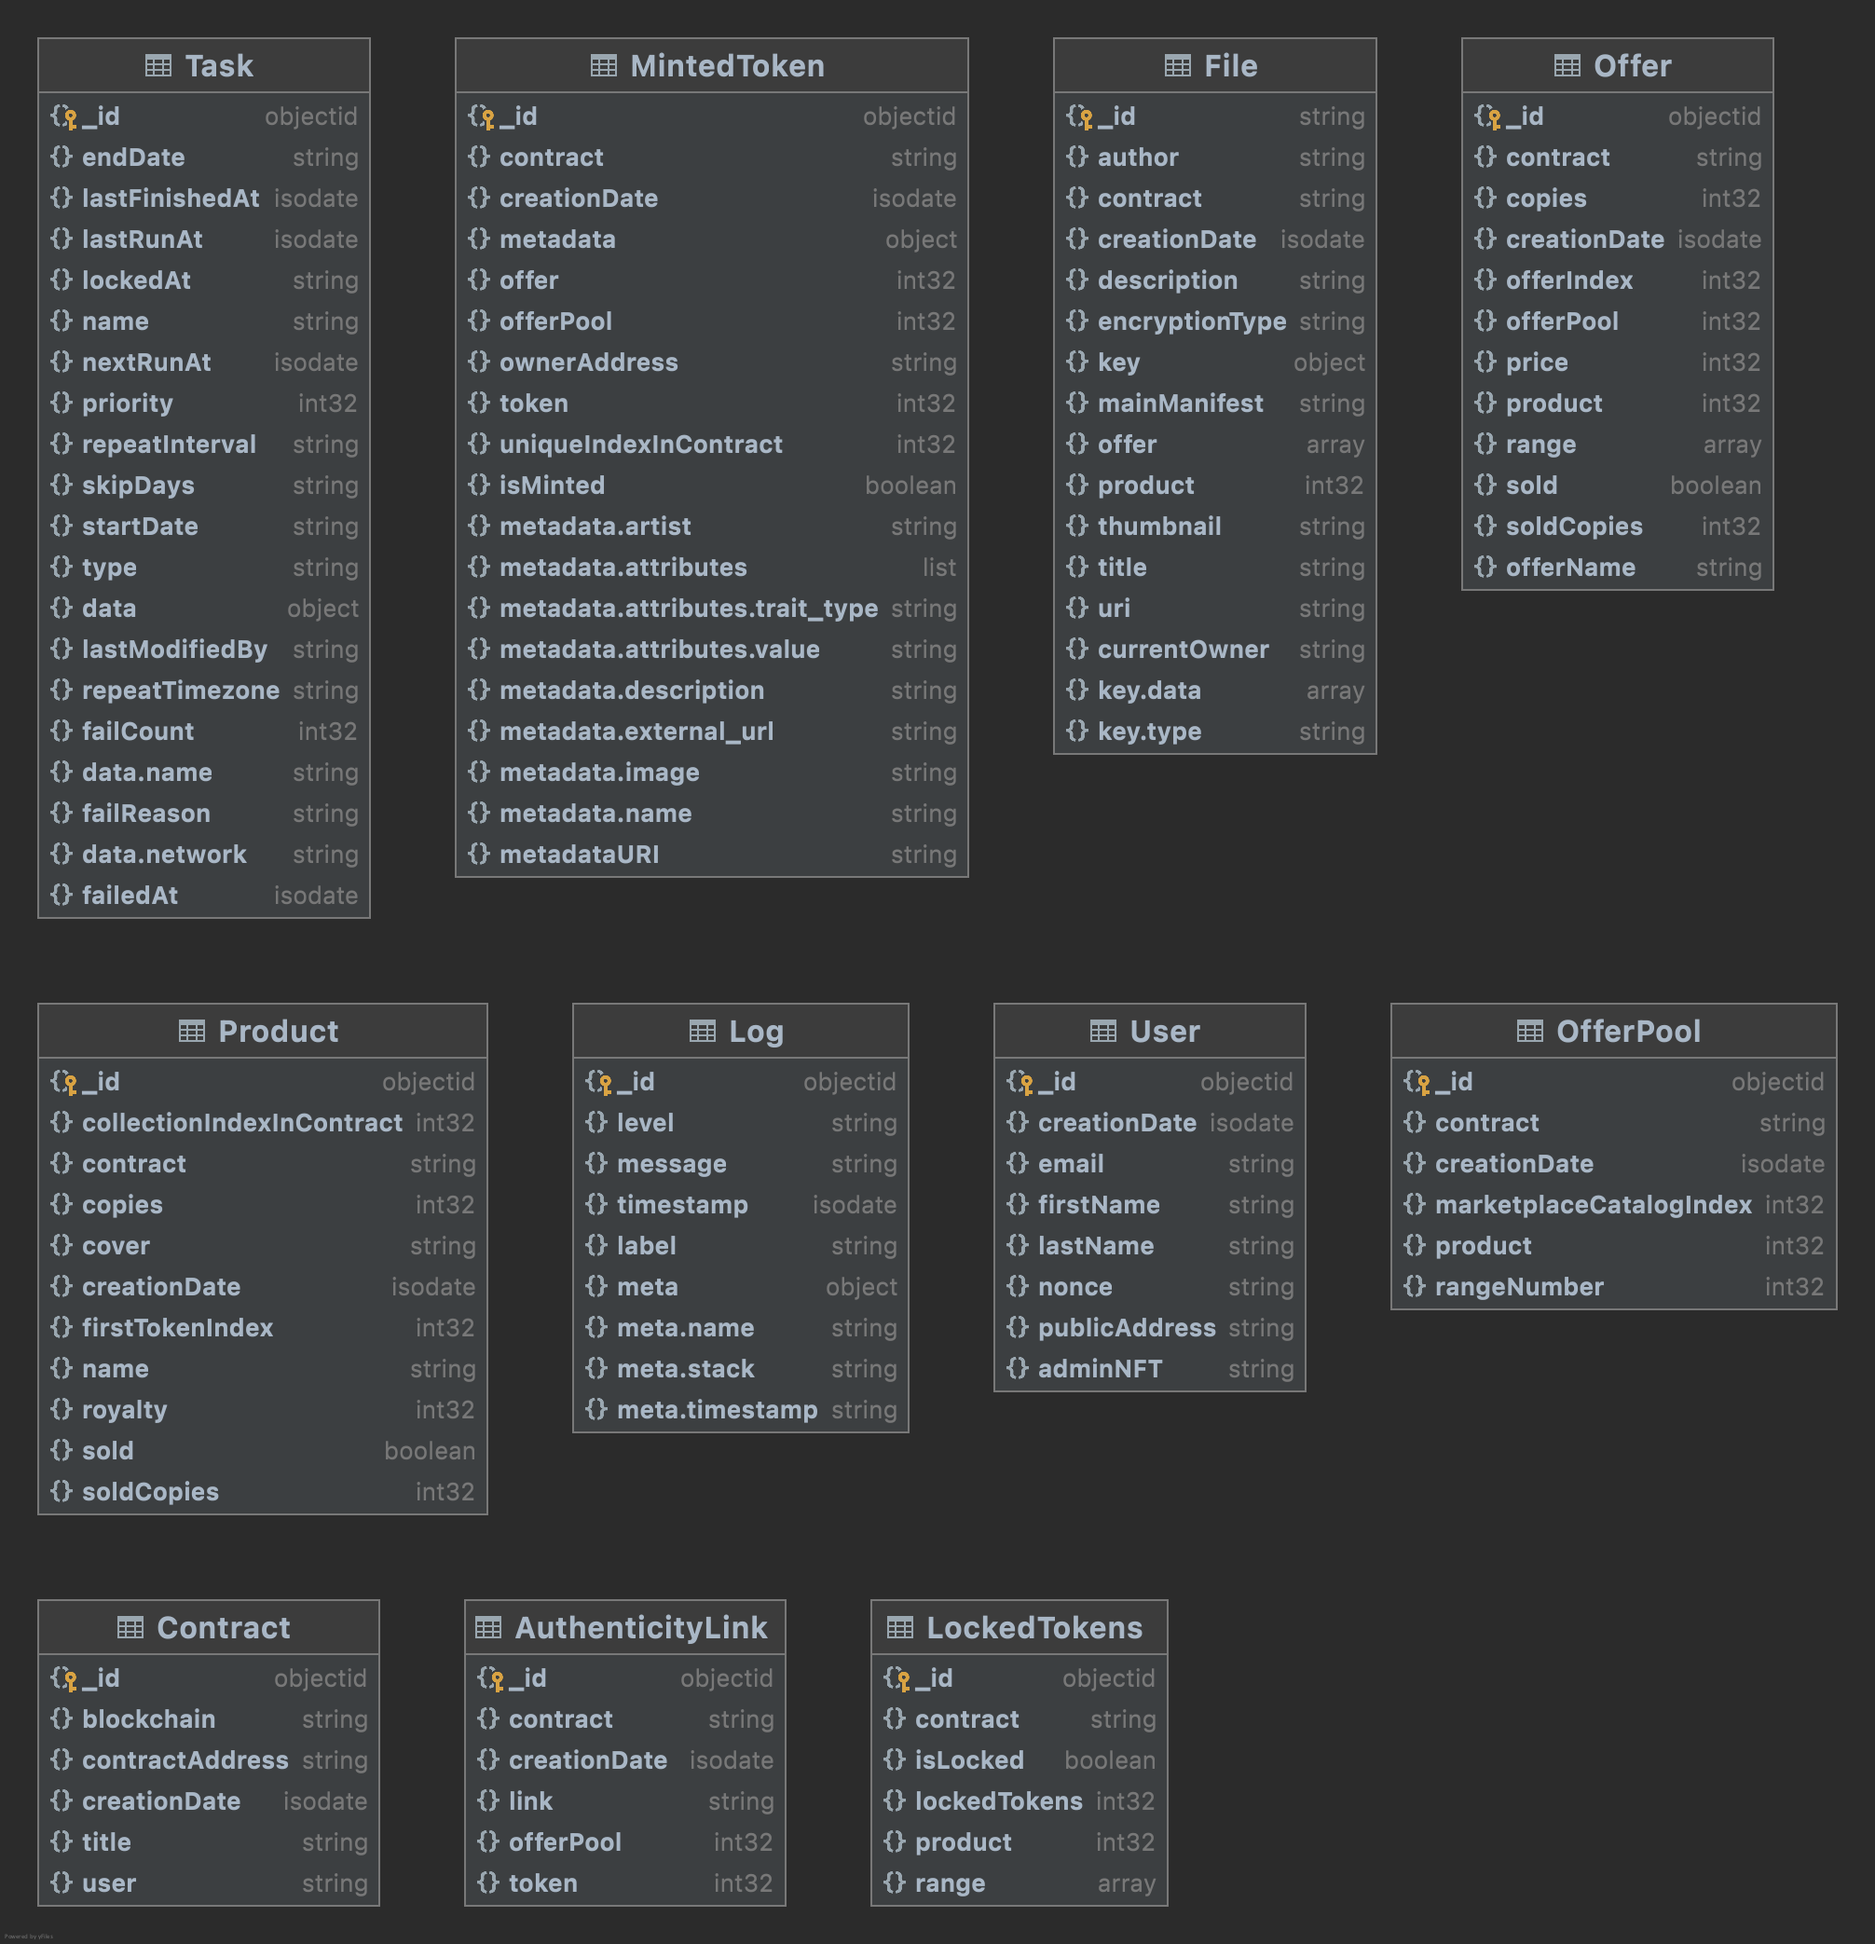
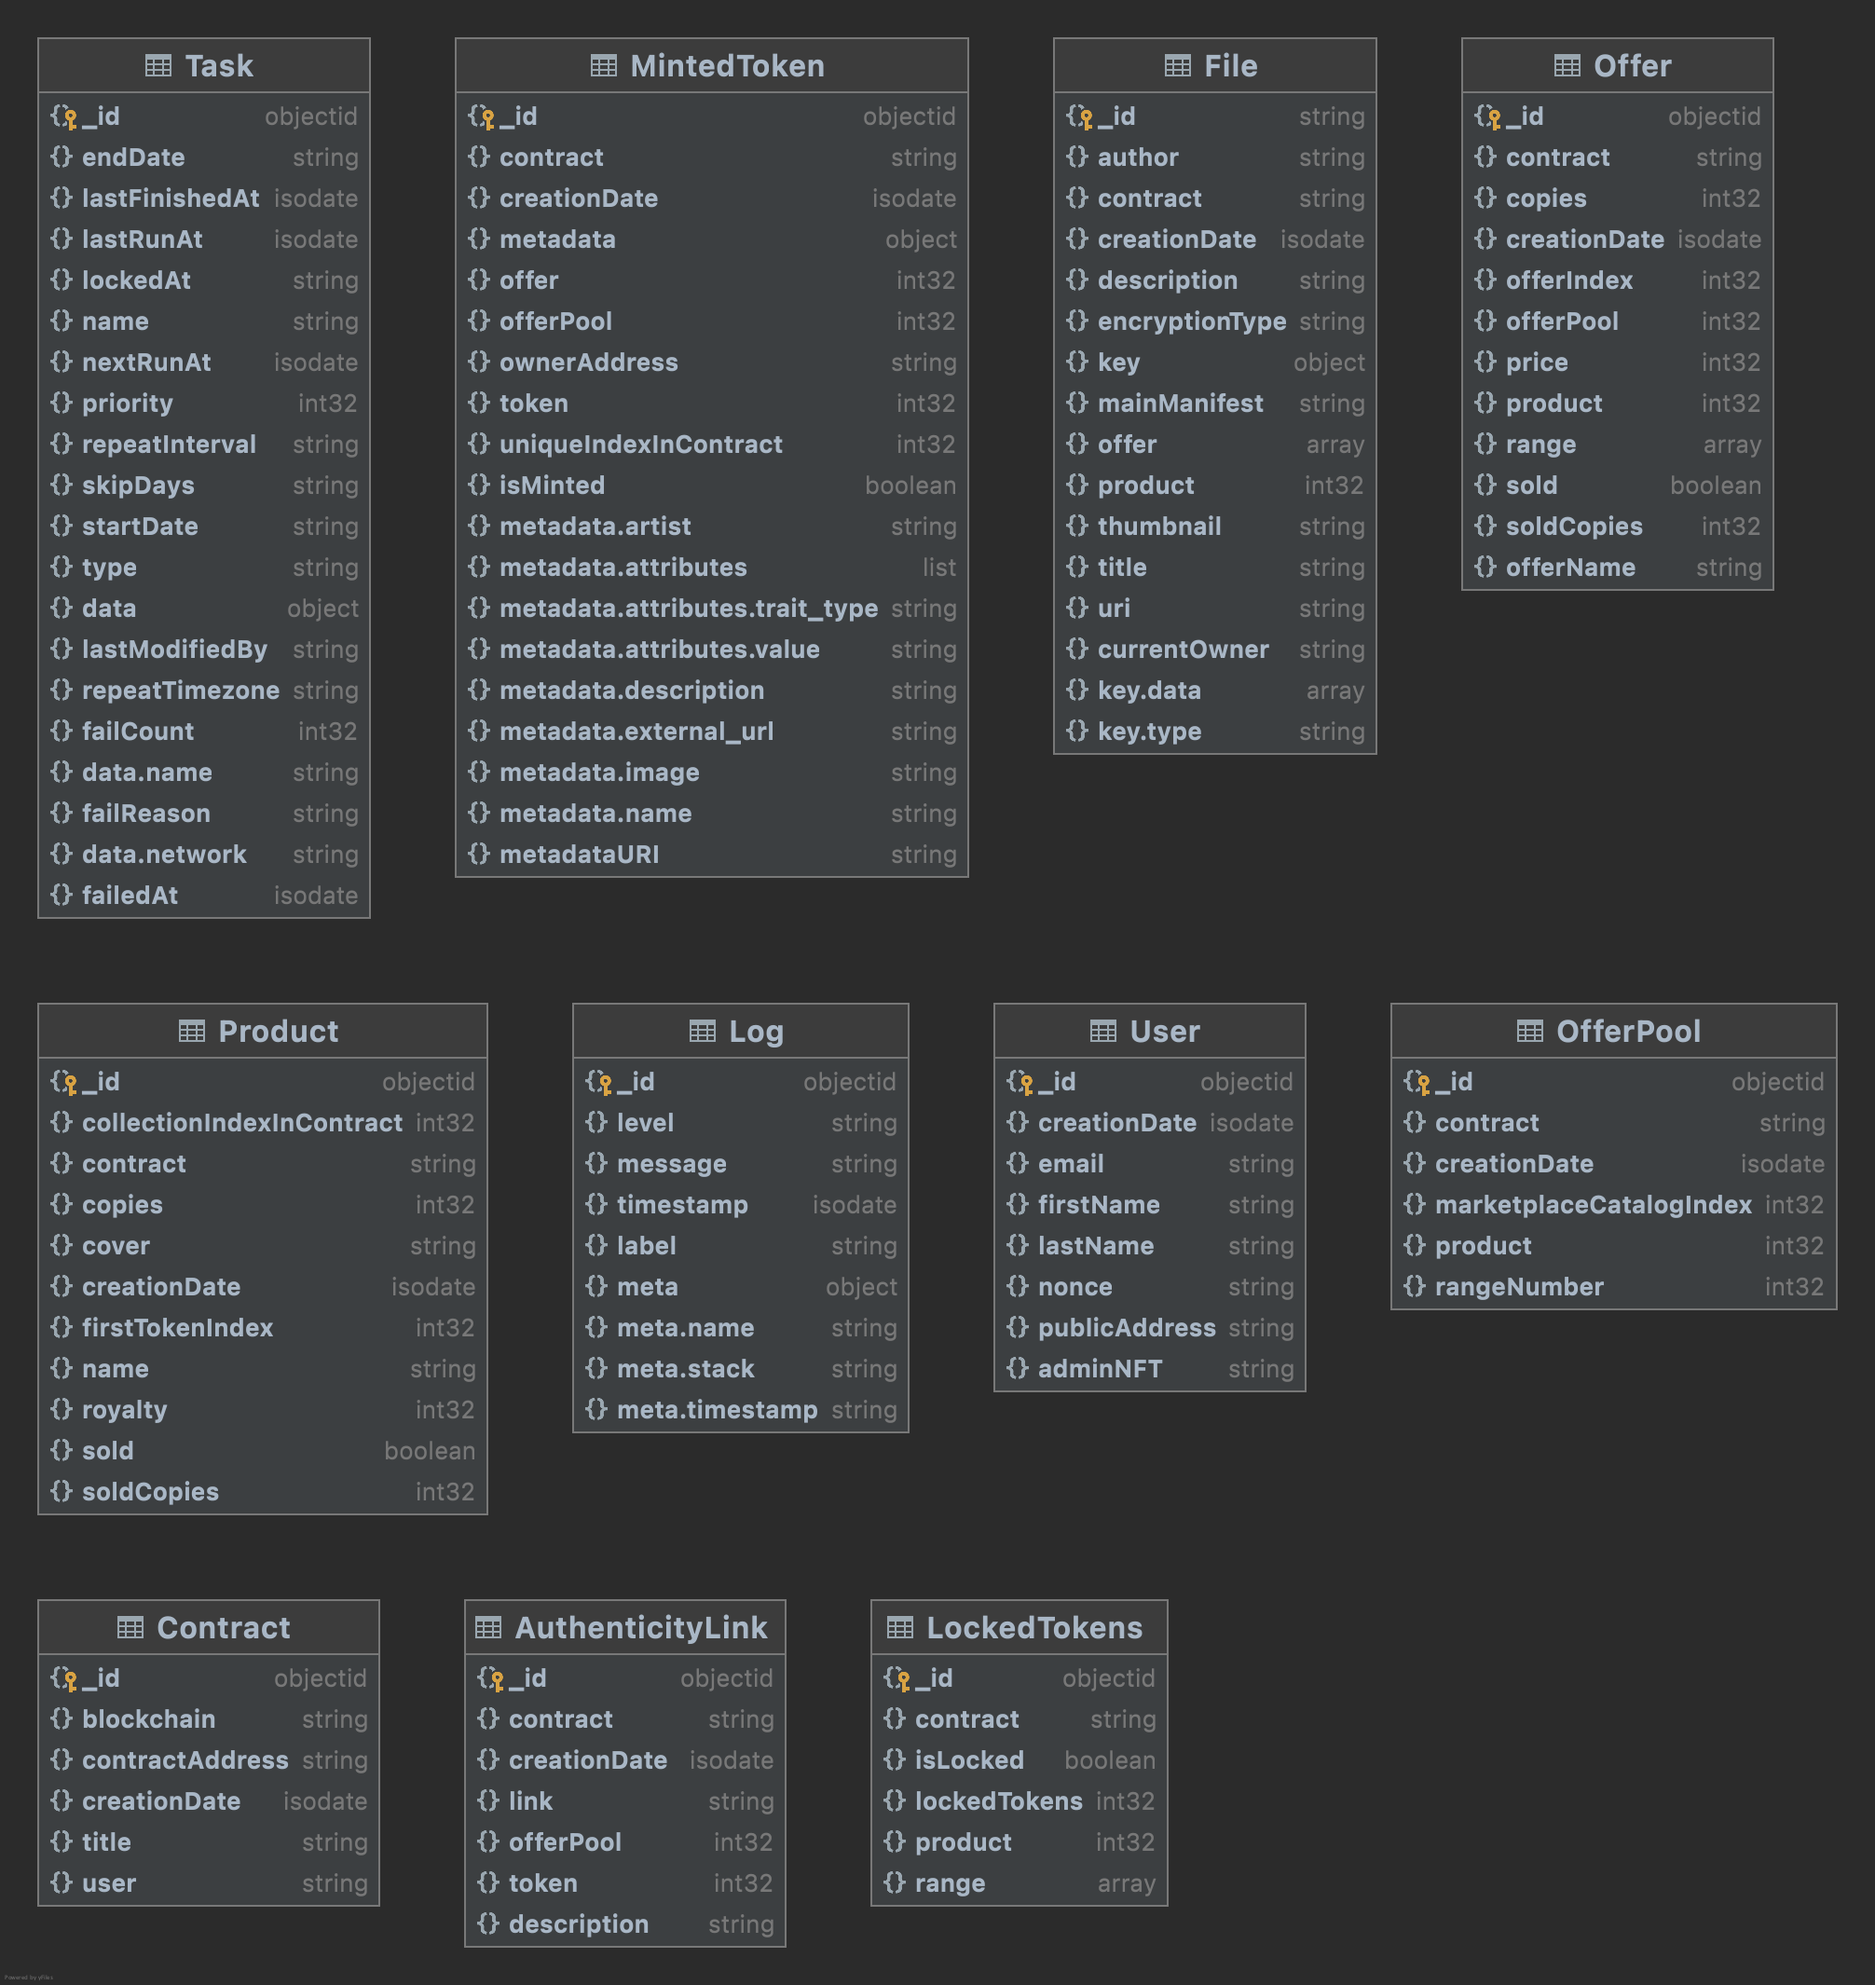
updating db schema; updating endpoint; updating documentation;

diff --git a/demo-decrypt-node/bin/routes/nft/contract/index.js b/demo-decrypt-node/bin/routes/nft/contract/index.js
@@ -20,24 +20,34 @@ module.exports = context => {
     }
   });
 
-  router.post('/offerPool/:offerPool/token/:token', JWTVerification(context), validation('authenticityLinkParams', 'params'), validation('authenticityLink'), async (req, res, next) => {
+  router.post('/offerPool/:offerPool/authenticityLink', JWTVerification(context), validation('authenticityLinkParams', 'params'), validation('authenticityLink'), async (req, res, next) => {
     try {
       const { contract } = req;
-      const { token, offerPool } = req.params;
-      const { link } = req.body;
+      const { offerPool } = req.params;
+      const { link, tokens, description } = req.body;
       const sanitizedOfferPool = Number(offerPool);
-      const sanitizedToken = Number(token);
 
       // TODO: have to be updated info about contract || offerPool || token if they not exist
 
-      const result = await context.db.AuthenticityLink.create({
-        link,
-        token: sanitizedToken,
-        offerPool: sanitizedOfferPool,
-        contract,
+      const tokensForSave = _.map(tokens, token => {
+        const sanitizedToken = Number(token);
+
+        return {
+          link,
+          token: sanitizedToken,
+          offerPool: sanitizedOfferPool,
+          contract,
+          description
+        }
       });
 
-      res.json({ success: true, result });
+      if (!_.isEmpty(tokensForSave)) {
+        try {
+          await context.db.AuthenticityLink.insertMany(tokensForSave, { ordered: false });
+        } catch (e) {}
+      }
+
+      res.json({ success: true, storedLinks: tokensForSave.length });
     } catch (err) {
       next(err);
     }

diff --git a/demo-decrypt-node/bin/models/authenticityLink.js b/demo-decrypt-node/bin/models/authenticityLink.js
@@ -4,6 +4,7 @@ const { Schema } = mongoose;
 
 const AuthenticityLink = new Schema({
   link: { type: String, required: true },
+  description: { type: String },
   token: { type: Number, required: true },
   offerPool: { type: Number, required: true },
   contract: { type: String, lowercase: true, required: true },

diff --git a/demo-decrypt-node/bin/schemas/authenticityLink.js b/demo-decrypt-node/bin/schemas/authenticityLink.js
@@ -1,5 +1,7 @@
 const Joi = require('joi');
 
 module.exports = Joi.object({
-  link: Joi.string().required()
+  link: Joi.string().required(),
+  tokens: Joi.array().items(Joi.number()).required(),
+  description: Joi.string()
 });

diff --git a/demo-decrypt-node/bin/schemas/authenticityLinkParams.js b/demo-decrypt-node/bin/schemas/authenticityLinkParams.js
@@ -3,8 +3,5 @@ const Joi = require('joi');
 module.exports = Joi.object({
   offerPool: Joi.number()
     .min(1)
-    .required(),
-  token: Joi.number()
-    .min(1)
     .required()
 });

diff --git a/demo-decrypt-node/readme/create_AuthenticityLink.md b/demo-decrypt-node/readme/create_AuthenticityLink.md
@@ -1,8 +1,8 @@
 # Store authenticity link
 
-Store authenticity link for specific token
+store authenticity link for bach of tokens
 
-**URL** : `/api/nft/:contract/offerPool/:offerPool/token/:token`
+**URL** : `/api/nft/:contract/offerPool/:offerPool/authenticityLink`
 
 **Method** : `POST`
 
@@ -34,12 +34,6 @@ Store authenticity link for specific token
     "content": {
       "type": "number"
     }
-  },
-  "token": {
-    "required": true,
-    "content": {
-      "type": "number"
-    }
   }
 }
 ```
@@ -50,6 +44,21 @@ Store authenticity link for specific token
 {
   "link": {
     "required": true,
+    "content": {
+      "type": "string"
+    }
+  },
+  "tokens": {
+    "required": true,
+    "content": {
+      "type": "array",
+      "items": {
+        "type": "number"
+      }
+    }
+  },
+  "description": {
+    "required": false,
     "content": {
       "type": "string"
     }
@@ -70,14 +79,7 @@ Returns if created successfully
 ```json
 {
   "success": true,
-  "result": {
-    "_id": "61695aae9097df001c940fd8",
-    "link": "https://www.google.com/",
-    "token": 1,
-    "offerPool": 11,
-    "contract": "contractAddress",
-    "creationDate": "2021-10-15T10:40:46.997Z"
-  }
+  "storedLinks": 2
 }
 ```
 

diff --git a/demo-decrypt-node/README.md b/demo-decrypt-node/README.md
@@ -64,7 +64,7 @@ Have to be set current value of `ADMIN_CONTRACT` variable in `.env` file
                 * [x] /token/:token - GET - Get specific token by contract, product and internal ID, [see details here](readme/get_minted_token_by_contract_product_index.md)
                 * [x] /files/:token - GET - get files by NFT token, [see details here](readme/get_files_by_nft.md)
             * [x] /token/:tokenInContract - GET - Get specific token by contract address and unique toke ID in contract, [see details here](readme/get_minted_token_by_contract_index.md)
-            * [x] /offerPool/:offerPool/token/:token - POST - store authenticity link for specific token [see details here](readme/create_AuthenticityLink.md)
+            * [x] /offerPool/:offerPool/authenticityLink - POST - store authenticity link for bach of tokens [see details here](readme/create_AuthenticityLink.md)
     * [x] /docs - swagger documentation for the server
     * [x] /:adminToken/:contractName/:productName - GET - get full data about particular product and get list of tokens for it, [see details here](readme/get_token_metadata.md)
 * [x] /stream/:token/:mediaId - POST - Register a new piece of media, [see details here](readme/stream.md)
